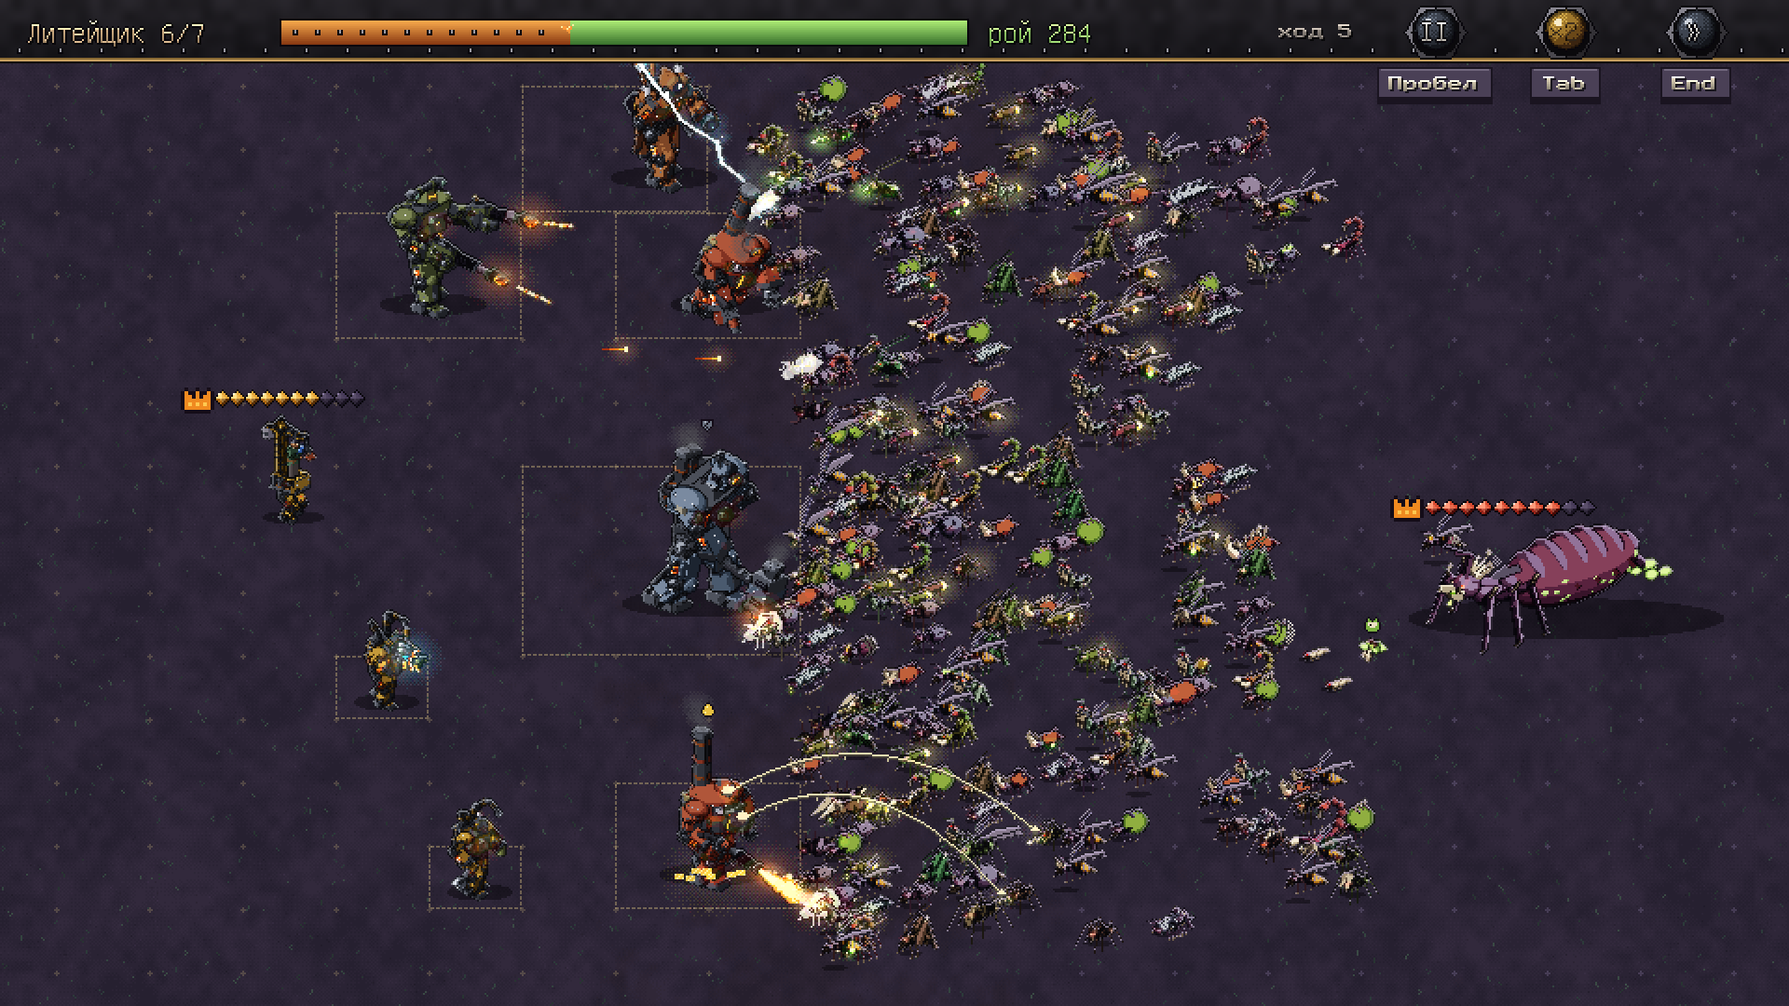
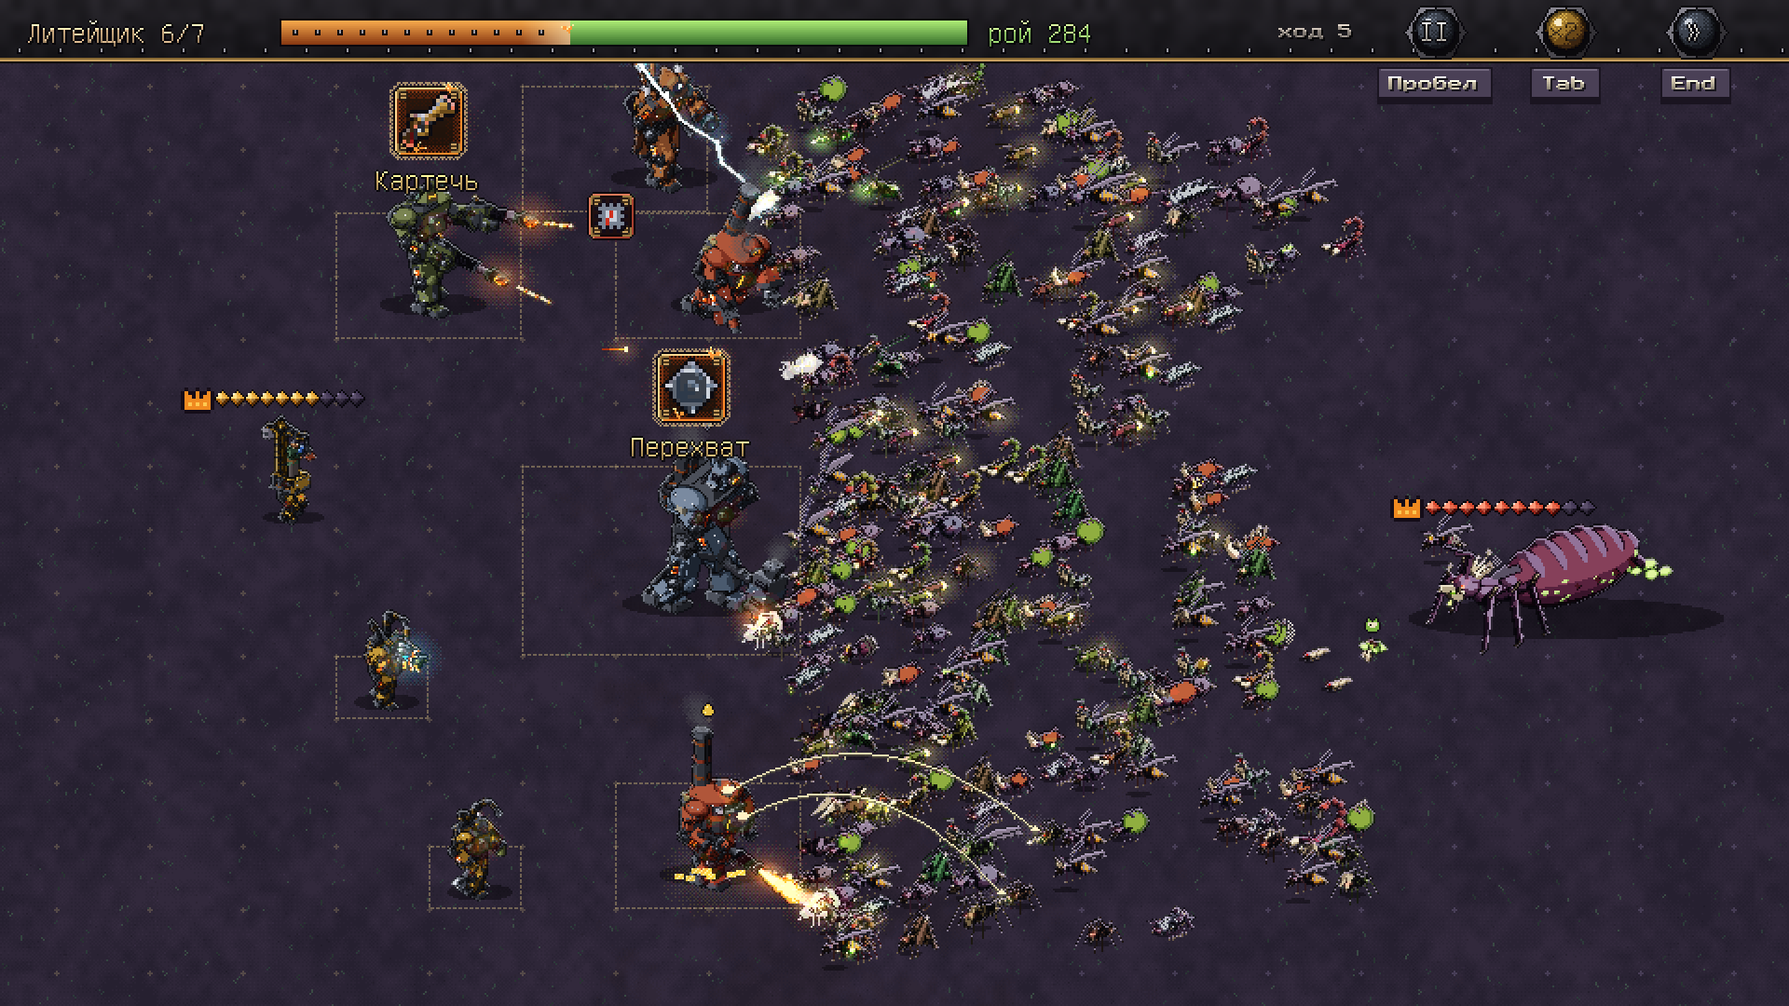
Литейщик: полное описание лидера и бой глазами Литейщика
Карточка Отца колосса: лидер в открытой топке с огнём pixelfx, его семь
ячеек со стартовыми модулями, паспорт (тело, оружие, кто с ним),
способности плашками со значками, развитие. Бой: модули выскакивают
над големами, сломанный голем отмечен, на паузе карточки голема и
врага, перетягивание на балке анимировано.

Claude-Session: https://claude.ai/code/session_01Bh6a99SKMjjKSinDnrtssC

diff --git a/tools/sprites/foundry_hud.py b/tools/sprites/foundry_hud.py
@@ -1452,6 +1452,131 @@ def leaders_pick(anim=None, ret=False):
     print("foundry_leader_pick.png", img.size)
 
 
+# ---------------------------------------------------------------- a leader in full, from «Полное описание»
+LEADER_FULL = {
+    "colossus": dict(
+        name="ОТЕЦ КОЛОССА", epi="армия из одного", k=3.0, lead="3 весь поход", cells=7,
+        mods=("plates", "flail", "magnet"),
+        body=(("здоровье", "здоровье", "160"), ("броня", "броня", "3"), ("скорость", "скорость", "1"),
+              ("размер", "размер", "7 · 4×4"), ("инициатива", "инициатива", "1")),
+        weapons=(("Электробулава", "1–8 +2 {дроб}", "размах", "1"), ("Миниган", "3 × 1–4 {кол}", None, "4")),
+        abil=(("Сотрясение", "каждые 3 хода", "{каждые:3} → {дроб} {радиус:1} · {оглушение:1}", INK),
+              ("Неудержимый", "постоянно", "{притяг:✕} · {оглушение:✕}", INK),
+              ("Ужас", "постоянно", "{радиус:3} → {страх:1–9}", INK),
+              ("Второе дыхание", "раз за бой", "{поломка} → встаёт с ½", INK),
+              ("Прожорливый", "слабость", "{ремонт} → {металл:×2}", RED),
+              ("Один за всех", "правило похода", "7 ячеек · модули любого корпуса", GOLD)),
+        army=(("Механик", ("repair",)),), grow=("после босса, 1 из 2:", "+1 ячейка · колоссальный модуль")),
+}
+
+
+def leader_card(kind="colossus", frame=0, ret=False):
+    """A Foundry leader in full: the leader large in its open furnace (pixelfx's fire), its nameplate, its own cells
+    with the modules it starts with; its passport — leadership, body, weapons, who comes with it; its abilities, each
+    a line of glyphs with when it fires; how it grows."""
+    import pxfx
+    import frames as F
+    L = LEADER_FULL[kind]
+    sc = screen(39)
+    FU.wing(sc, 0, 0, WW, 44)
+    title_center(sc, L["name"], "hammer")
+    toolbar(sc)
+    # the furnace and the leader in it
+    FU.plate(sc, 12, 52, 330, 462, seed=61)
+    X, Y = sc.xx, sc.yy
+    ax, ay, ar, fl = 171, 186, 116, 348
+    arch = ((((X - ax) / ar) ** 2 + ((Y - ay) / ar) ** 2 <= 1) & (Y <= ay)) | ((np.abs(X - ax) <= ar) & (Y > ay) & (Y < fl))
+    t = np.clip((Y - ay + ar) / (fl - ay + ar), 0, 1)
+    fire = hexc("#1e0a06")[None, None, :] * (1 - t[..., None]) + hexc("#7a2410")[None, None, :] * t[..., None]
+    sc.rgb[arch] = fire[arch]
+    inner = ((((X - ax) / (ar - 3)) ** 2 + ((Y - ay) / (ar - 3)) ** 2 <= 1) & (Y <= ay)) | ((np.abs(X - ax) <= ar - 3) & (Y > ay) & (Y < fl))
+    frames_, meta = pxfx.load("forge-fire")
+    before = sc.rgb.copy()
+    for dx in (-62, 58):
+        pxfx.blend(sc, frames_[(frame + (dx > 0) * 7) % len(frames_)], ax + dx, fl, meta["pivot"])
+    sc.rgb[~inner] = before[~inner]
+    sc.rgb[arch & ~inner] = hexc("#b8904a")
+    for kk in range(-4, 5):                                           # the voussoirs: rivets round the arch
+        a_ = np.pi * (0.5 + kk / 10)
+        FU.rivet(sc, ax - np.cos(a_) * (ar + 5), ay - np.sin(a_) * (ar + 5))
+    spr = leader_sprite(kind, L["k"])
+    sc.blit(spr, int(ax - spr.ox), int(fl - 4 - spr.oy))
+    sc.rgb[fl:fl + 3, ax - ar - 6:ax + ar + 7] = hexc("#5a5860")
+    FU.sparks(sc, ax - 80, fl - 6, 10, seed=3 + frame // 3)
+    FU.sparks(sc, ax + 84, fl - 10, 8, seed=4 + frame // 3)
+    FU.cell(sc, 24, 358, 318, 398, "hi")
+    letters(sc, L["name"], ax, 363, "title", 16, col=(255, 210, 140), align="center")
+    letters(sc, L["epi"], ax, 380, "text", 16, col=BRASS, align="center")
+    # its own cells: 7, three of them filled
+    n = L["cells"]
+    cw = (294 - (n - 1) * 4) / n
+    for c in range(n):
+        cx0 = int(round(24 + c * (cw + 4)))
+        has = c < len(L["mods"])
+        FU.cell(sc, cx0, 410, int(round(cx0 + cw)), 452, "normal" if has else "locked")
+        if has:
+            mod_icon(sc, L["mods"][c], cx0 + cw / 2 - 16, 415, 2)
+    # the passport
+    x0, x1 = 352, 612
+    FU.plate(sc, 338, 52, 626, 462, seed=62)
+    heading(sc, "ПАСПОРТ", x0, 62)
+    H.fx_line(sc, x0, 90, "{лидер} лидерство " + L["lead"])
+    y = 118
+    heading(sc, "ТЕЛО", x0, y)
+    y += 30
+    for g, lab, val in L["body"]:
+        a_ = H.glyph(sc, g, x0, y - 4, 2)
+        letters(sc, lab, x0 + a_ + 8, y - 2, "text", 16, col=MUTED)
+        lw = len(lab) * 8
+        w, _ = H.fx_line(sc, 0, 0, val, draw=False)
+        H.dots(sc, x0 + a_ + 14 + lw, x1 - w - 6, y + 10)
+        H.fx_line(sc, x1 - w, y - 2, val)
+        y += 21
+    y += 6
+    heading(sc, "ОРУЖИЕ", x0, y)
+    y += 28
+    for nm, dmg, extra, rng in L["weapons"]:
+        letters(sc, nm, x0, y, "text", 16, col=GOLD)
+        w, _ = H.fx_line(sc, 0, 0, "{дальность:" + rng + "}", draw=False)
+        H.fx_line(sc, x1 - w, y, "{дальность:" + rng + "}")
+        H.fx_line(sc, x0 + 12, y + 19, dmg + ("" if not extra else " · " + extra))
+        y += 42
+    heading(sc, "С НИМ", x0, y)
+    y += 26
+    for j, (fr, mods) in enumerate(L["army"]):
+        ck = ("army_big", fr)
+        if ck not in _LEADERS:
+            _LEADERS[ck] = F.build(fr, "idle", k=F.FRAMES[fr][0] * 0.95)
+        g = _LEADERS[ck]
+        sc.blit(g, int(x0 + 22 - g.ox), int(y + 64 - g.oy))
+        letters(sc, fr, x0 + 52, y + 8, "text", 16, col=INK)
+        for m_, key in enumerate(mods):
+            FU.cell(sc, x0 + 52 + m_ * 40, y + 28, x0 + 88 + m_ * 40, y + 62, "normal")
+            mod_icon(sc, key, x0 + 54 + m_ * 40, y + 29, 2)
+    # the abilities
+    rx0, rx1 = 646, WW - 26
+    FU.plate(sc, 634, 52, 948, 462, seed=63)
+    heading(sc, "СПОСОБНОСТИ", rx0, 62)
+    y = 90
+    for nm, when, line, col in L["abil"]:
+        FU.cell(sc, rx0 - 4, y, rx1 + 4, y + 47, "broken" if col == RED else ("hi" if col == GOLD else "normal"))
+        letters(sc, nm, rx0 + 6, y + 4, "text", 16, col=col)
+        letters(sc, when, rx1 - 4, y + 4, "text", 16, col=MUTED, align="right")
+        H.fx_line(sc, rx0 + 6, y + 24, line)
+        y += 51
+    y += 2
+    letters(sc, "развитие " + L["grow"][0], rx0, y, "text", 16, col=MUTED)
+    letters(sc, L["grow"][1], rx0, y + 18, "text", 16, col=INK)
+    FU.sill(sc, 468)
+    action(sc, 12, 478, 220, 526, "Назад", "steel")
+    action(sc, 640, 472, 948, 532, "ВЫБРАТЬ", "hot", big=True)
+    if ret:
+        return sc
+    img = sc.image(S)
+    img.save(out("foundry_leader_card.png"))
+    print("foundry_leader_card.png", img.size)
+
+
 # ---------------------------------------------------------------- after the battle
 def damage_drawing(sc, frame, mods, key, x, y, K, pulse=1.0):
     """The golem as a drawing on the blueprint, the part that broke picked out in red — its own pixels, found as
@@ -1593,53 +1718,157 @@ def aftermath(anim=None, ret=False):
 
 
 # ---------------------------------------------------------------- the battle, seen from the Foundry
-def battle():
-    """The same battle as the swarm's, the interface the Foundry's: an iron beam with the tug of war (hot iron from
-    the left, the swarm's green from the right), the speed, the keys; both leaders' health over them."""
+def module_pop(sc, key, name, cx, top, k=1.0, rise=0.0, heat=1.0):
+    """A module firing, over its golem: its icon in a red-hot box, rising, its name under it; k fades the lot in
+    and out, heat cools the box's rim from red back to iron."""
+    before = sc.rgb.copy() if k < 1 else None
+    y = int(round(top - 48 - rise))
+    if y < 42:                                       # no room over its head (the field's top row): by its side
+        y, cx = int(round(42 - rise * 0.3)), cx - 58
+    x0 = int(round(cx - 19))
+    sc.glow(cx, y + 19, 30, hexc("#ff8a2a"), 0.5 * heat)
+    FU.cell(sc, x0, y, x0 + 38, y + 38, "hover" if heat > 0.5 else "normal", seed=3)
+    mod_icon(sc, key, x0 + 3, y + 3, 2)
+    letters(sc, name, cx, y + 42, "text", 16, col=GOLD, align="center")
+    if before is not None:
+        sc.rgb[:] = before * (1 - k) + sc.rgb * k
+
+
+def mark_broken(sc, cx, cy):
+    """The Foundry's own state on the field: a golem broken in the fight — the breakdown glyph in a rust-red box
+    with its crack, by the golem's side; it waits there for the repair after the battle."""
+    x0, y0 = int(cx - 13), int(cy - 13)
+    sc.glow(cx, cy, 18, hexc("#e04a2a"), 0.35)
+    FU.cell(sc, x0, y0, x0 + 26, y0 + 26, "broken")
+    H.glyph(sc, "поломка", x0 + 4, y0 + 4, 2)
+
+
+def golem_tip(sc, gx, gy, name, sub, mods, rows, side="left", w=300):
+    """On pause, the golem under the mouse opens its card by it: name, frame and leadership, its modules as icons
+    with their levels, then its lines of glyphs (body, blow, what's wrong with it)."""
+    x0 = int(gx - 40 - w) if side == "left" else int(gx + 40)
+    y0 = int(gy - 150)
+    yb = H.fx_rows(sc, x0 + 12, y0 + 96, w - 24, rows, draw=False) + 8
+    FU.cell(sc, x0, y0, x0 + w, yb, "hi")
+    letters(sc, name, x0 + 12, y0 + 9, "text", 16, col=GOLD)
+    letters(sc, sub, x0 + w - 12, y0 + 9, "text", 16, col=MUTED, align="right")
+    for m_, (key, lvl, st) in enumerate(mods):
+        mx = x0 + 12 + m_ * 46
+        FU.cell(sc, mx, y0 + 32, mx + 40, y0 + 72, st)
+        mod_icon(sc, key, mx + 4, y0 + 36, 2)
+        letters(sc, lvl, mx + 20, y0 + 74, "title", 8, col=BRASS if st != "broken" else RED, outline=False,
+                align="center")
+    H.fx_rows(sc, x0 + 12, y0 + 96, w - 24, rows)
+    return x0, y0, x0 + w, yb
+
+
+_FIELD = {}
+
+
+def battle_field():
+    """The battle under the HUD — built once (it is the slow part) and copied for every view and frame."""
+    import battle as BT
+    if "sc" not in _FIELD:
+        sc, count, ng = BT.build("Матка")
+        _FIELD.update(sc=sc, count=count, ng=ng, gpos=BT.LAST["gpos"], lead=BT.LAST["lead"])
+    return _FIELD
+
+
+def battle_wing(sc, share, paused=False, t=0, ng=7, count=285):
+    """The iron beam: the Foundry's count, the tug of war (hot iron pushing from the left, the swarm's green from the
+    right, sparks where they meet), the swarm's count, the turn, the speed caps with their keys."""
+    FU.wing(sc, 0, 0, WW, 34)
+    letters(sc, f"Литейщик {ng - 1}/{ng}", 14, 9, "text", 16, col=(240, 200, 150))
+    x0, x1, y0, y1 = 150, 520, 10, 25
+    mid = x0 + (x1 - x0) * share
+    X, Y = sc.xx, sc.yy
+    m = (X >= x0) & (X < x1) & (Y >= y0) & (Y < y1)
+    tt = np.clip((Y - y0) / (y1 - y0), 0, 1)[..., None]
+    left, right = m & (X < mid), m & (X >= mid)
+    sc.rgb[left] = (hexc("#ffb050") * (1 - tt) + hexc("#7a2a0a") * tt)[left]
+    sc.rgb[right] = (hexc("#b4f47a") * (1 - tt) + hexc("#2a6224") * tt)[right]
+    heat = left & (X > mid - 26)                                       # the iron's edge hottest where it pushes
+    a_ = np.clip(1 - (mid - X) / 26, 0, 1)[..., None] * 0.6
+    sc.rgb[heat] = (sc.rgb * (1 - a_) + hexc("#fff0c0") * a_)[heat]
+    for x in range(x0 + 8, int(mid) - 6, 12):
+        FU.rivet(sc, x, (y0 + y1) // 2)
+    o, _, _ = SU.edges(m)
+    sc.rgb[o] = SU.OUTL
+    FU.sparks(sc, mid, (y0 + y1) / 2, 8, seed=2 + t // 2)
+    letters(sc, f"рой {count - 1}", 530, 9, "text", 16, col=(170, 240, 120))
+    letters(sc, "ход 5", 728, 13, "title", 8, col=MUTED, outline=False, align="right")
+    for cx, t_, on, key in ((770, "II", paused, "Пробел"), (840, "×2", not paused, "Tab"), (910, "»", False, "End")):
+        FU.cap_button(sc, cx, 17, 11, t_, "brass" if on else "steel")
+        kw = SU.text_width(key, "title", 8) + 14
+        H.keycap(sc, int(cx - kw / 2), 36, key)
+
+
+def battle_view(mode="run", t=0, share=0.42, pops=None, ret=False):
+    """The battle with the Foundry's interface over it. On the field: both leaders' health over them, a module's
+    icon popping up over its golem when it fires, states over the golems (the swarm's glue and acid, and the
+    Foundry's own — a broken module). On pause, pointing at a golem opens its card; at a bug, the enemy's."""
     import copy
     import battle as BT
     import swarm_status as ST
     import swarm1 as W
-    sc, count, ng = BT.build("Матка")
+    fd = battle_field()
+    sc = copy.deepcopy(fd["sc"])
     H.HOVER.clear()
     H.KIT["cell"] = FU.cell
+    gp = fd["gpos"]
     qx, qy = BT.X0 + 15.6 * BT.CW, BT.Y0 + 8.4 * BT.CH
-    qtop = ST.top_of(W.queen(0.0, "attack", k=0.92), qy)
-    lx, ly = BT.X0 + 2.5 * BT.CW, BT.Y0 + 6.8 * BT.CH
-    ltop = ST.top_of(BT.LH.GH.build(BT.LH.ZODCHIY, "idle", 1.05), ly)
+    if "qtop" not in _FIELD:
+        _FIELD["qtop"] = ST.top_of(W.queen(0.0, "attack", k=0.92), qy)
+    qtop = _FIELD["qtop"]
+    lx, ly, lspr = fd["lead"]
+    ltop = ST.top_of(lspr, ly)
     SU.meter(sc, lx - 40, ltop - 12, lx + 40, 7, 10, 7, "#d08a3a")
     H.glyph(sc, "лидер", lx - 58, ltop - 14, 2)
     SU.meter(sc, qx - 46, qtop - 12, qx + 46, 7, 10, 8, "#c04a3a")
     H.glyph(sc, "лидер", qx - 64, qtop - 14, 2)
-    FU.wing(sc, 0, 0, WW, 34)
-    letters(sc, f"Литейщик {ng - 1}/{ng}", 14, 9, "text", 16, col=(240, 200, 150))
-    x0, x1, y0, y1 = 150, 520, 10, 25                       # the tug: hot iron from the left, the swarm from the right
-    share = 0.42
-    mid = x0 + (x1 - x0) * share
-    X, Y = sc.xx, sc.yy
-    m = (X >= x0) & (X < x1) & (Y >= y0) & (Y < y1)
-    t = np.clip((Y - y0) / (y1 - y0), 0, 1)[..., None]
-    left = m & (X < mid)
-    right = m & (X >= mid)
-    sc.rgb[left] = (hexc("#ffb050") * (1 - t) + hexc("#7a2a0a") * t)[left]
-    sc.rgb[right] = (hexc("#b4f47a") * (1 - t) + hexc("#2a6224") * t)[right]
-    for x in range(x0 + 8, int(mid) - 4, 12):
-        FU.rivet(sc, x, (y0 + y1) // 2)
-    o, _, _ = SU.edges(m)
-    sc.rgb[o] = SU.OUTL
-    FU.sparks(sc, mid, (y0 + y1) / 2, 8, seed=2)
-    letters(sc, f"рой {count - 1}", 530, 9, "text", 16, col=(170, 240, 120))
-    letters(sc, "ход 5", 728, 13, "title", 8, col=MUTED, outline=False, align="right")
-    for cx, t_, on, key in ((770, "II", False, "Пробел"), (840, "×2", True, "Tab"), (910, "»", False, "End")):
-        FU.cap_button(sc, cx, 17, 11, t_, "brass" if on else "steel")
-        kw = SU.text_width(key, "title", 8) + 14
-        H.keycap(sc, int(cx - kw / 2), 36, key)
+    bx, by, bspr = gp[("Горн", 6, 2)]                                  # the Forge whose module broke
+    mark_broken(sc, bx - 58, by - 46)
+    if pops is None:
+        pops = [("canister", "Картечь", ("Орудие", 3, 2), 1.0, 0.0, 1.0),
+                ("intercept", "Перехват", ("Страж", 5, 6), 1.0, 0.0, 1.0)]
+    for key, nm, who, k, rise, heat in pops:
+        x, y, spr = gp[who]
+        module_pop(sc, key, nm, x, ST.top_of(spr, y), k, rise, heat)
+    battle_wing(sc, share, mode != "run", t, fd["ng"], fd["count"])
+    name = "foundry_battle.png"
+    if mode == "pause":                                                # the Guard: its card by it
+        gx, gy, gspr = gp[("Страж", 5, 6)]
+        golem_tip(sc, gx + 40, gy - 10, "Страж", "голем · 6", (("tower", "II", "normal"), ("intercept", "I", "normal"),
+                  ("plates", "I", "normal")),
+                  ["{здоровье:71/100} {броня:4 −1} {скорость:1}", "{урон:1–6 +3} {дроб} {дальность:1}",
+                   "{атака} {свой} {радиус:1} → {перехват:1}", "разъедена: {броня:−1} до конца боя"], side="right", w=280)
+        H.cursor(sc, int(gx) + 4, int(gy) - 60)
+        name = "foundry_battle_pause.png"
+    elif mode == "enemy":                                              # a spitter: the enemy's card, in our iron
+        sx_, sy_ = 566, 452
+        x0, y0, w = 590, 300, 270
+        rows_ = ["{каждые:2} → {яд} {клей:1} {дальность:3}", "{через:1}", "минус: {атака} → {урон:−}"]
+        yb = H.fx_rows(sc, x0 + 12, y0 + 46, w - 24, rows_, draw=False) + 8
+        FU.cell(sc, x0, y0, x0 + w, yb, "broken")
+        H.icon(sc, "spitter", x0 + 8, y0 + 6, 2)
+        letters(sc, "Паук-плевун", x0 + 46, y0 + 9, "text", 16, col=(190, 240, 130))
+        letters(sc, "рой · рабочая", x0 + 46, y0 + 25, "text", 16, col=MUTED)
+        H.fx_rows(sc, x0 + 12, y0 + 46, w - 24, rows_)
+        H.cursor(sc, sx_ - 2, sy_ - 14)
+        name = "foundry_battle_enemy.png"
+    if ret:
+        return sc
     img = sc.image(S)
-    img.save(out("foundry_battle.png"))
-    print("foundry_battle.png", img.size)
+    img.save(out(name))
+    print(name, img.size)
 
 
-SCREENS = {"workshop": workshop, "camp": camp, "rack": workshop_rack, "repair": workshop_repair, "smelt": smelt, "slipways": slipways, "new": new_golem, "card": card, "leader": leaders_pick, "aftermath": aftermath, "battle": battle}
+def battle():
+    for mode in ("run", "pause", "enemy"):
+        battle_view(mode)
+
+
+SCREENS = {"workshop": workshop, "camp": camp, "leadercard": leader_card, "rack": workshop_rack, "repair": workshop_repair, "smelt": smelt, "slipways": slipways, "new": new_golem, "card": card, "leader": leaders_pick, "aftermath": aftermath, "battle": battle}
 
 if __name__ == "__main__":
     arg = sys.argv[1] if len(sys.argv) > 1 else "all"

diff --git a/tools/sprites/ui_anim.py b/tools/sprites/ui_anim.py
@@ -288,6 +288,19 @@ def leaders():
     print("\nfoundry_leader_fire.gif", len(images))
 
 
+def leader_card():
+    """The leader's full card: his furnace burning behind him, two fires in turns, sparks at his feet — the card's
+    left plate, the only part of the screen that moves, as a loop."""
+    frames, meta = pxfx.load("forge-fire")
+    images = []
+    for i in range(len(frames)):
+        sc = FH.leader_card(frame=i, ret=True)
+        images.append(sc.image(2).crop((0, 96, 672, 932)))
+        print(i, end=" ", flush=True)
+    pxfx.save_gif(images, out("foundry_leader_card.gif"), meta["fps"], half=True)
+    print("\nfoundry_leader_card.gif", len(images))
+
+
 def heat_env(i, a, b, c, d):
     """How hot a thing under the mouse is at frame i: heating a..b, held b..c, cooling c..d (eased)."""
     if i < a or i >= d:
@@ -444,8 +457,43 @@ def card_tip():
     print("\nfoundry_card_tip.gif", len(images))
 
 
+def pop_env(i, start, n=24):
+    """A module's pop over its golem at frame i: (k, rise, heat) — it jumps up out of the golem past its place and
+    settles, glows red-hot, cools to iron, then drifts up and fades. None when it is not up."""
+    t = i - start
+    if t < 0 or t >= n:
+        return None
+    if t < 5:
+        e = out_back(t / 5)
+        return min(1.0, t / 3), -10 * (1 - e), 1.0
+    if t < n - 6:
+        return 1.0, 0.0, max(0.0, 1 - (t - 5) / 10)
+    f = (t - (n - 6)) / 6
+    return 1 - in_out_cubic(f), 6 * out_quad(f), 0.0
+
+
+def battle_anim():
+    """The battle seen by the Foundry: the tug of war on the beam swaying — the iron pushes in after the Canister
+    fires, the swarm presses back — sparks at the seam; the modules' icons popping up over their golems in turn."""
+    images = []
+    N = 48
+    for i in range(N):
+        share = 0.44 + 0.022 * np.sin(2 * np.pi * i / N) + 0.008 * np.sin(6 * np.pi * i / N)
+        pops = []
+        for key, nm, who, st in (("canister", "Картечь", ("Орудие", 3, 2), 0), ("intercept", "Перехват", ("Страж", 5, 6), 22)):
+            e = pop_env(i, st)
+            if e:
+                pops.append((key, nm, who) + e)
+        sc = FH.battle_view("run", t=i, share=share, pops=pops, ret=True)
+        images.append(sc.image(2).crop((0, 0, 1120, 680)))
+        print(i, end=" ", flush=True)
+    pxfx.save_gif(images, out("foundry_battle_anim.gif"), FPS, half=True)
+    print("\nfoundry_battle_anim.gif", len(images))
+
+
 if __name__ == "__main__":
     what = sys.argv[1] if len(sys.argv) > 1 else "console"
     {"console": console, "hearth": hearth, "workshop": workshop, "tabs": tabs, "steps": steps,
      "metal": metal_tick, "gears": gears_title, "leaders": leaders,
-     "hover": hover, "speed": speed, "start": start, "aftermath": aftermath_anim, "card": card_tip}[what]()
+     "hover": hover, "speed": speed, "start": start, "aftermath": aftermath_anim, "card": card_tip, "leadercard": leader_card,
+     "battle": battle_anim}[what]()

diff --git a/tools/sprites/battle.py b/tools/sprites/battle.py
@@ -381,7 +381,11 @@ def build(leader="Матка"):
             x = a[0] + (b[0] - a[0]) * f
             y = a[1] + (b[1] - a[1]) * f
             bolt(sc, int(x), int(y), "fire", 14)
+    LAST.update(gpos=gpos, lead=(lx, ly, lead), spiders=spiders)
     return sc, count, len(golems)
+
+
+LAST = {}     # the last field built: where each golem stands, the leader, the spitters — for the HUDs over it
 
 
 def overlay(img, count, ng, leader="Матка"):
